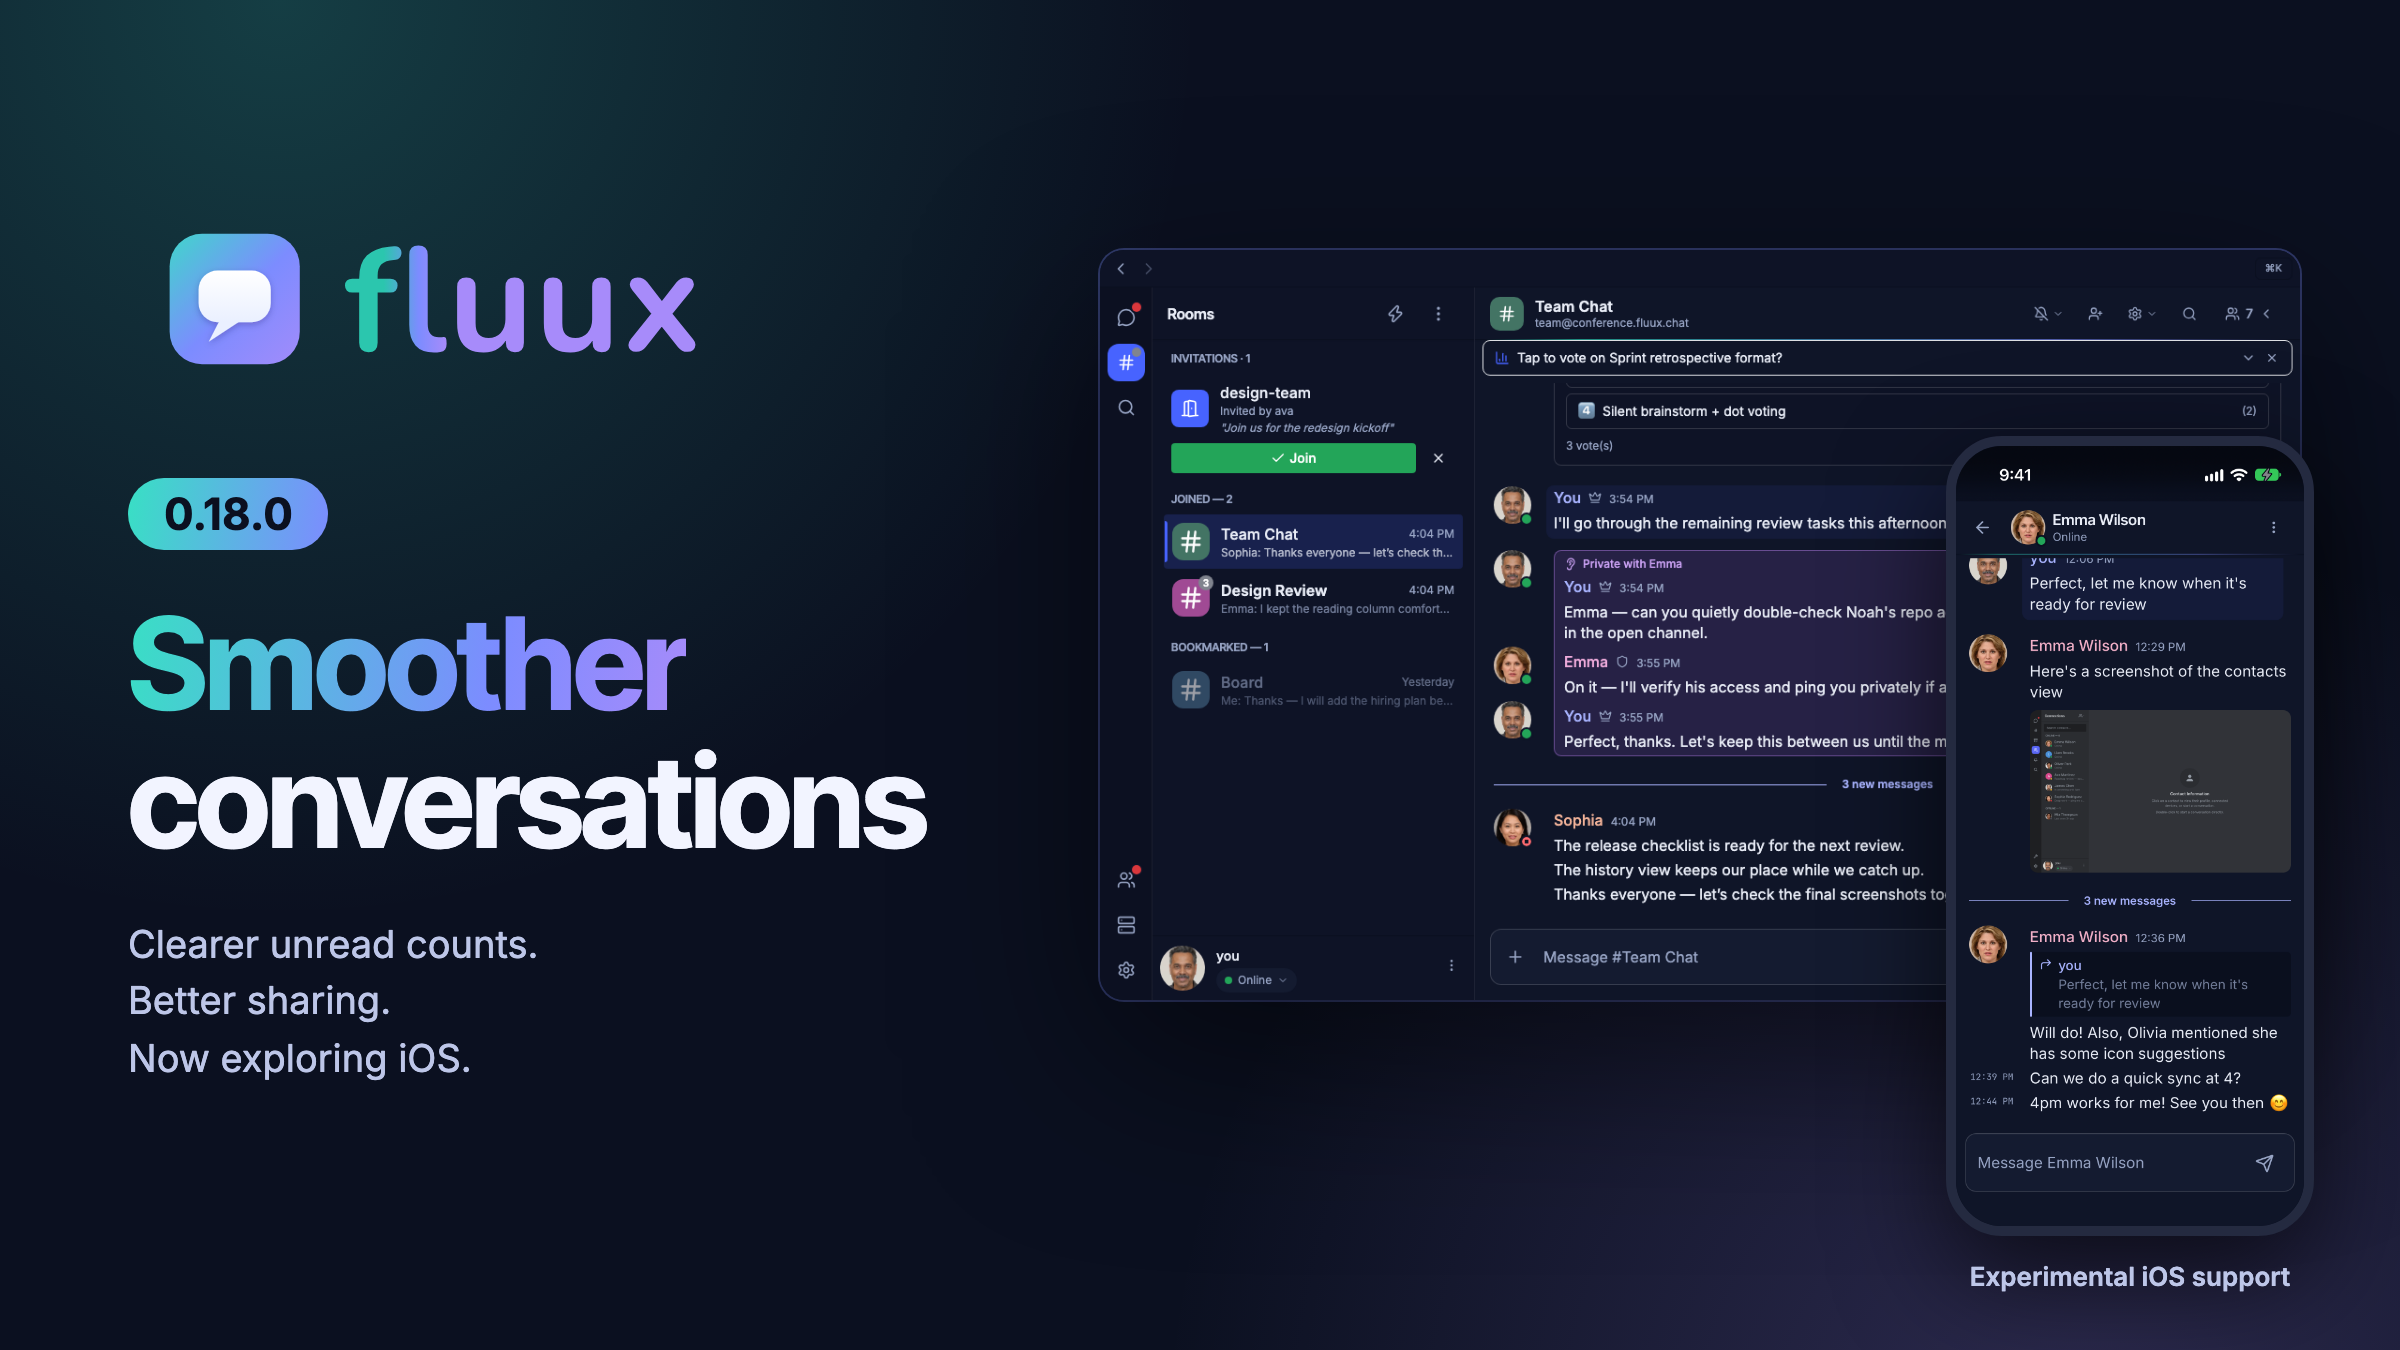
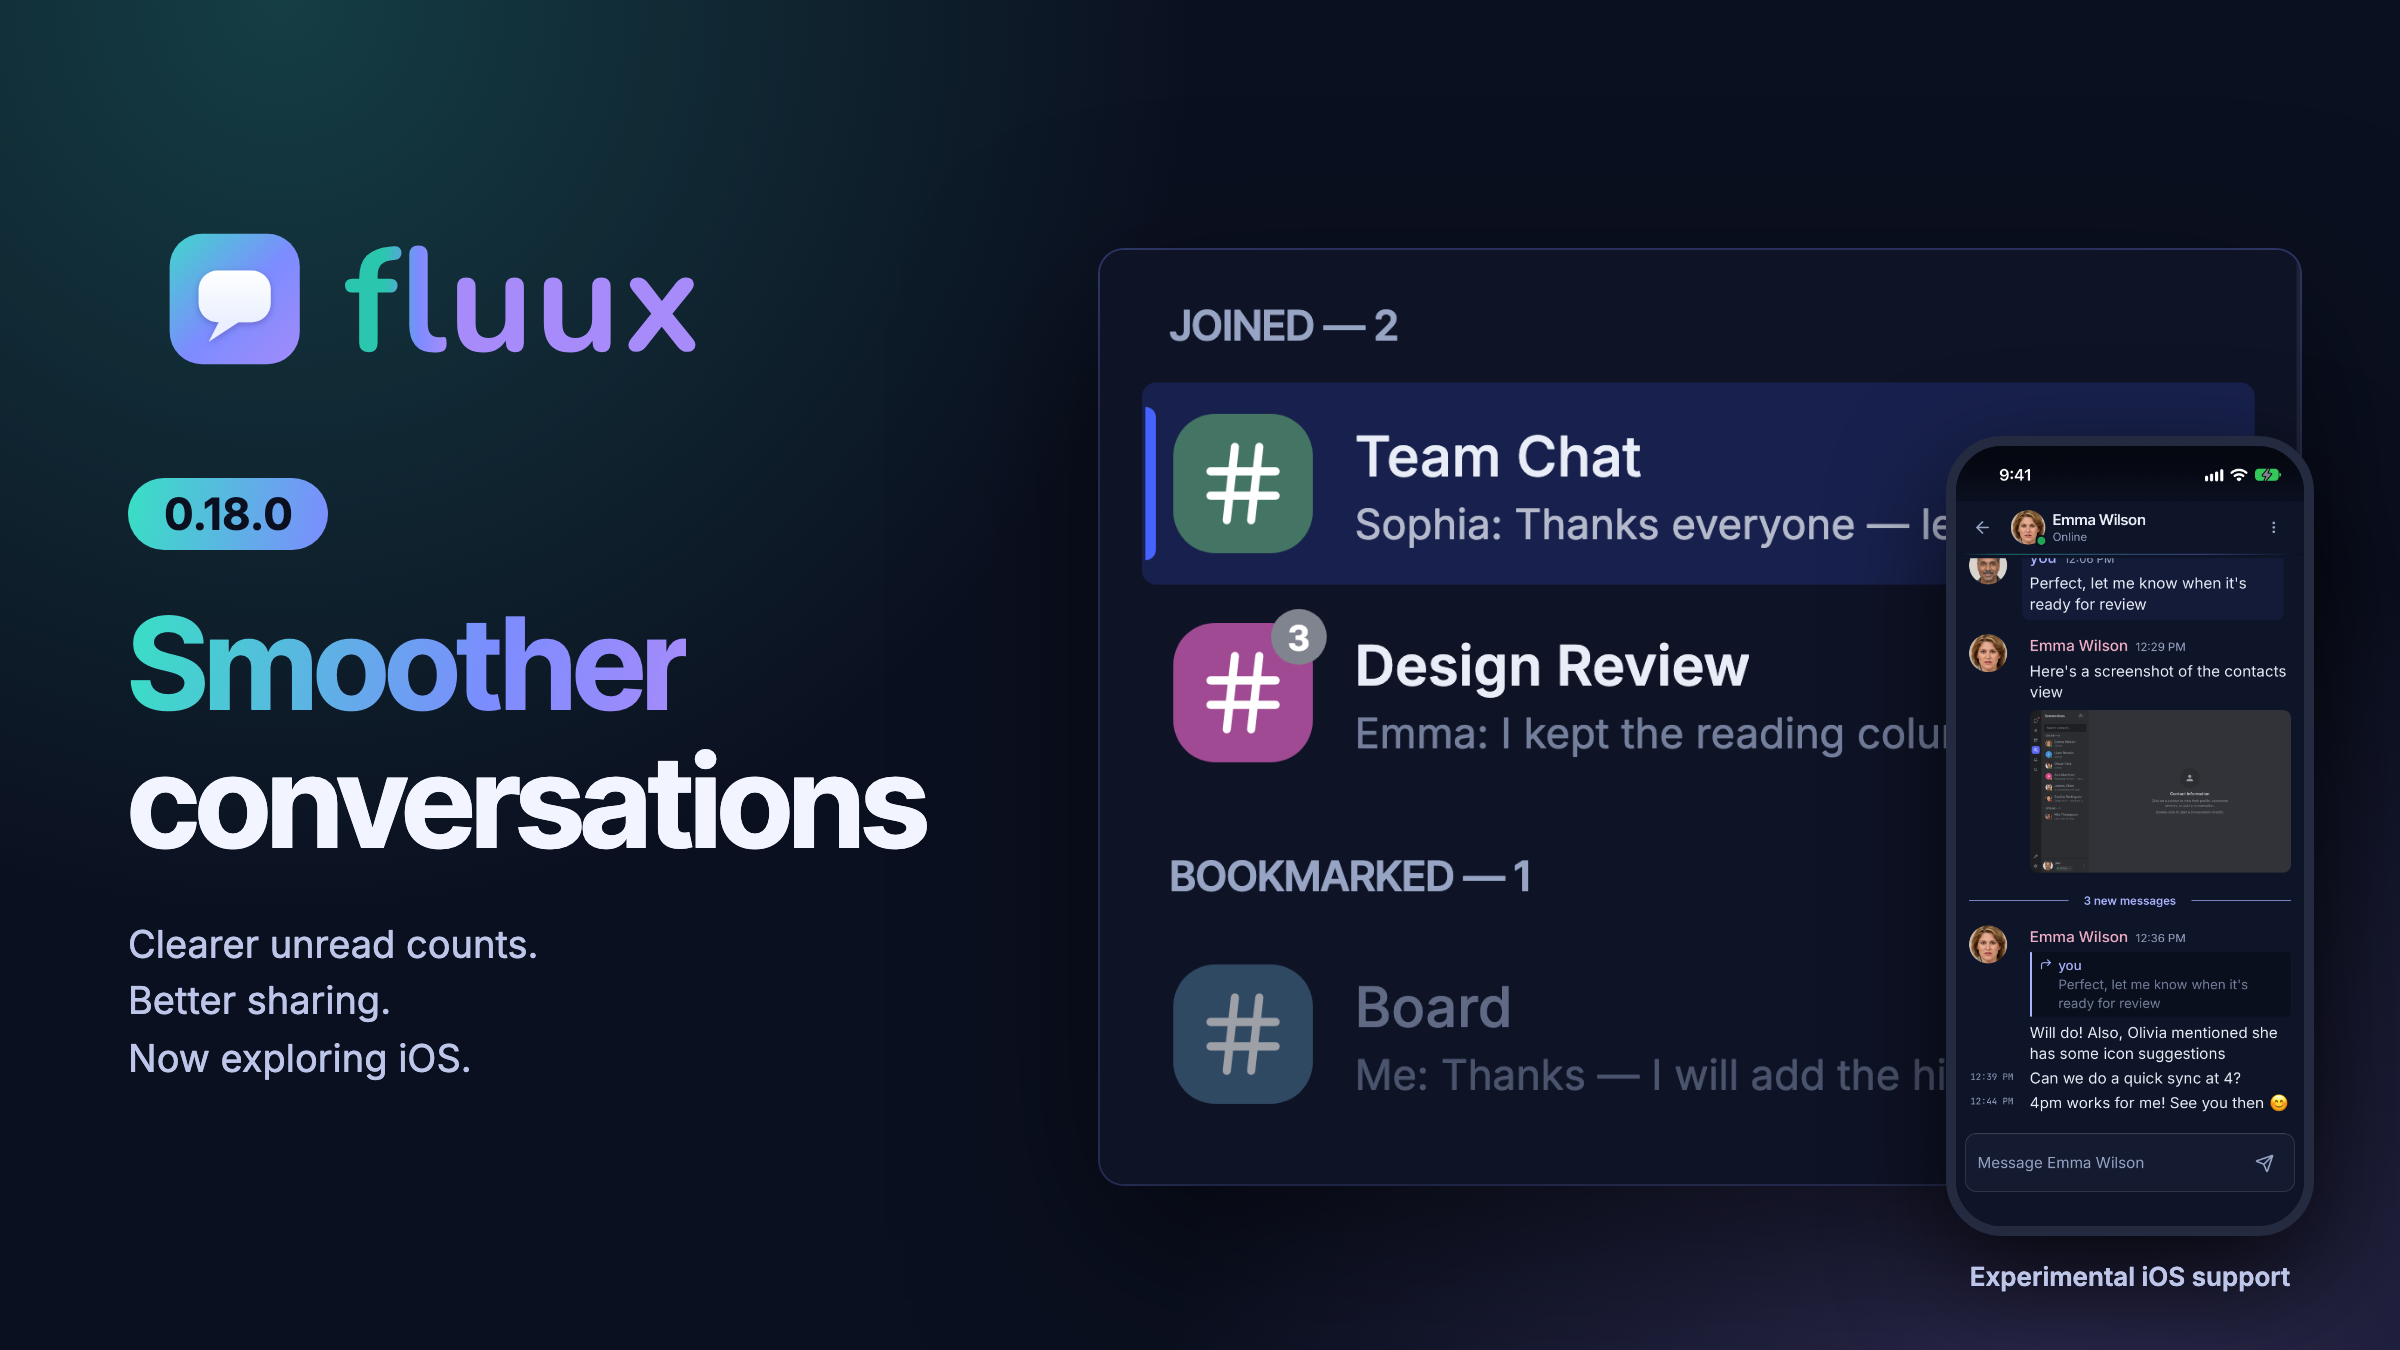
fix(media): use approved unread crop and iPhone-only blog copy

Changed region(s): [[0.4375, 0.2178, 0.9375, 0.5911], [0.4688, 0.5911, 0.8125, 0.84]]

diff --git a/e2e/screenshots.ts b/e2e/screenshots.ts
@@ -78,11 +78,11 @@ async function selectItem(page: Page, name: string) {
 }
 
 /** Take a screenshot and save to the output directory. */
-async function capture(page: Page, filename: string) {
+async function capture(page: Page, filename: string, clip?: { x: number; y: number; width: number; height: number }) {
   await clearHover(page)
   await page.waitForTimeout(300)
   await waitForFloatingDateToFade(page)
-  await page.screenshot({ path: `${OUTPUT_DIR}/${filename}.png`, type: 'png' })
+  await page.screenshot({ path: `${OUTPUT_DIR}/${filename}.png`, type: 'png', clip })
 }
 
 /**
@@ -557,49 +557,55 @@ test('32 — Unread badge + new-message divider (dark)', async ({ page }) => {
 })
 
 // Captain's 0.18.0 correction: show the new room-avatar unread count without an @ mention badge.
-test('33 — Release 0.18.0 room read state (dark)', async ({ page }) => {
-  await waitForDemoReady(page)
-  await page.evaluate(() => {
-    const client = (window as any).__demoClient
-    const conversations = [
-      { roomJid: 'design@conference.fluux.chat', nick: 'Emma', bodies: [
-        'The updated desktop screenshots are ready to review.',
-        'Could you check the mobile layout too?',
-        'I kept the reading column comfortable on wide windows.',
-      ] },
-      { roomJid: 'team@conference.fluux.chat', nick: 'Sophia', bodies: [
-        'The release checklist is ready for the next review.',
-        'The history view keeps our place while we catch up.',
-        'Thanks everyone — let’s check the final screenshots together.',
-      ] },
-    ]
-    client.startAnimation(conversations.flatMap(({ roomJid, nick, bodies }, room) =>
-      bodies.map((body, index) => ({
-        delayMs: 0, action: 'room-message', data: {
-          roomJid, incrementUnread: true, incrementMentions: false,
-          message: {
-            type: 'groupchat', id: `release-018-${room}-${index}`,
-            stanzaId: `sid-release-018-${room}-${index}`, from: `${roomJid}/${nick}`,
-            nick, body, timestamp: new Date(Date.now() + index), isOutgoing: false, roomJid,
+test.describe('Release 0.18.0 media', () => {
+  // Keep the approved crop crisp when enlarged in the 2× blog hero.
+  test.use({ deviceScaleFactor: 4 })
+
+  test('33 — Release 0.18.0 room read state (dark)', async ({ page }) => {
+    await waitForDemoReady(page)
+    await page.evaluate(() => {
+      const client = (window as any).__demoClient
+      const conversations = [
+        { roomJid: 'design@conference.fluux.chat', nick: 'Emma', bodies: [
+          'The updated desktop screenshots are ready to review.',
+          'Could you check the mobile layout too?',
+          'I kept the reading column comfortable on wide windows.',
+        ] },
+        { roomJid: 'team@conference.fluux.chat', nick: 'Sophia', bodies: [
+          'The release checklist is ready for the next review.',
+          'The history view keeps our place while we catch up.',
+          'Thanks everyone — let’s check the final screenshots together.',
+        ] },
+      ]
+      client.startAnimation(conversations.flatMap(({ roomJid, nick, bodies }, room) =>
+        bodies.map((body, index) => ({
+          delayMs: 0, action: 'room-message', data: {
+            roomJid, incrementUnread: true, incrementMentions: false,
+            message: {
+              type: 'groupchat', id: `release-018-${room}-${index}`,
+              stanzaId: `sid-release-018-${room}-${index}`, from: `${roomJid}/${nick}`,
+              nick, body, timestamp: new Date(Date.now() + index), isOutgoing: false, roomJid,
+            },
           },
-        },
-      }))))
+        }))))
+    })
+    await navigateTo(page, 'rooms')
+    // Widen the real sidebar so room names remain readable beside the avatar count.
+    const divider = await page.locator('[role="separator"]').first().boundingBox()
+    if (!divider) throw new Error('Sidebar resize handle is missing')
+    await page.mouse.move(divider.x + divider.width / 2, divider.y + divider.height / 2)
+    await page.mouse.down()
+    await page.mouse.move(divider.x + 140, divider.y + divider.height / 2, { steps: 10 })
+    await page.mouse.up()
+    const design = page.locator('[data-room-jid="design@conference.fluux.chat"]')
+    await selectItem(page, 'Team Chat')
+    await expect(design.getByLabel('3 unread messages')).toBeVisible()
+    await expect(design.getByLabel(/^Mentions:/)).toHaveCount(0)
+    await expect(page.locator('[data-new-message-marker]')).toHaveText('3 new messages')
+    await expect(page.getByText('Thanks everyone — let’s check the final screenshots together.', { exact: true })).toBeVisible()
+    // Approved closer crop: keep the joined-room avatar count readable in the hero.
+    await capture(page, 'release-0.18.0-desktop-unread', { x: 56, y: 244, width: 344, height: 268 })
   })
-  await navigateTo(page, 'rooms')
-  // Widen the real sidebar so room names remain readable beside the avatar count.
-  const divider = await page.locator('[role="separator"]').first().boundingBox()
-  if (!divider) throw new Error('Sidebar resize handle is missing')
-  await page.mouse.move(divider.x + divider.width / 2, divider.y + divider.height / 2)
-  await page.mouse.down()
-  await page.mouse.move(divider.x + 140, divider.y + divider.height / 2, { steps: 10 })
-  await page.mouse.up()
-  const design = page.locator('[data-room-jid="design@conference.fluux.chat"]')
-  await selectItem(page, 'Team Chat')
-  await expect(design.getByLabel('3 unread messages')).toBeVisible()
-  await expect(design.getByLabel(/^Mentions:/)).toHaveCount(0)
-  await expect(page.locator('[data-new-message-marker]')).toHaveText('3 new messages')
-  await expect(page.getByText('Thanks everyone — let’s check the final screenshots together.', { exact: true })).toBeVisible()
-  await capture(page, 'release-0.18.0-desktop-unread')
 })
 
 // ── Glass Theme-Variant Scenes ─────────────────────────────────────

diff --git a/scripts/blog-hero/blog-hero-0.18.0.html b/scripts/blog-hero/blog-hero-0.18.0.html
@@ -38,7 +38,7 @@
     <h1><span>Smoother</span><br>conversations</h1>
     <p class="summary">Clearer unread counts.<br>Better sharing.<br>Now exploring iOS.</p>
   </div>
-  <img class="desktop" src="../../screenshots/release-0.18.0-desktop-unread.png" alt="Desktop room list and conversation with new messages">
+  <img class="desktop" src="../../screenshots/release-0.18.0-desktop-unread.png" alt="Desktop room list cropped to show the unread count on Design Review's avatar">
   <div class="phone"><img src="../../screenshots/release-0.18.0-ios-chat.png" alt="Fluux running natively on iPhone"></div>
   <div class="ios-label">Experimental iOS support</div>
 </main>

diff --git a/docs/blog/fluux-messenger-0.18.0-media.md b/docs/blog/fluux-messenger-0.18.0-media.md
@@ -8,8 +8,8 @@ date remains unconfirmed; adding these assets does not publish the post.
 | Asset | File | Placement / dimensions |
 | --- | --- | --- |
 | Blog thumbnail | `screenshots/blog-hero-0.18.0.png` | Blog opening; 2400×1350, intended to display at 1200×675. Aurora branding, 0.18.0, desktop and native iPhone, with an experimental iOS label. |
-| Desktop room read state | `screenshots/release-0.18.0-desktop-unread.png` | Under **Clearer unread counts**; 1280×800. Design Review shows unread 3 on its avatar without an @ mention badge; Team Chat shows its three-message divider. |
-| Native iPhone conversation | `screenshots/release-0.18.0-ios-chat.png` | Under **Experimental iPhone and iPad support**; 1206×2622. Emma's conversation with an attachment, reply and unread divider. |
+| Desktop room read state | `screenshots/release-0.18.0-desktop-unread.png` | Under **Clearer unread counts**; 1376×1072 room-list crop, captured at 4× for a crisp 344×268 logical region. Design Review shows unread 3 on its avatar without an @ mention badge. |
+| Native iPhone conversation | `screenshots/release-0.18.0-ios-chat.png` | Under **Experimental iOS support for iPhone**; 1206×2622. Emma's conversation with an attachment, reply and unread divider. |
 | Native iPhone list | `screenshots/release-0.18.0-ios-list.png` | Companion screenshot in the visual overview; 1206×2622, avatars and unread badges. |
 | Desktop gallery | Existing PNGs generated by `e2e/screenshots.ts` | 60 refreshed compositions at 1280×800, retaining their existing names, themes, density and language variants. Old release hero images are unchanged. |
 | Updated demo reel | `assets/readme/fluux-demo.mp4` | 129.37 seconds, 1920×1080 at 30 fps, silent H.264/yuv420p, limited-range BT.709, fast-start metadata; 2,841,802 bytes. |
@@ -24,7 +24,9 @@ project's existing isolated demo data. The dedicated desktop scene injects
 sample messages through `DemoClient`, then opens the room through the UI. It
 asserts the unread avatar badge, absence of a mention badge, numbered divider
 and final message before capturing. Its sidebar is widened through the actual
-resize handle so names remain readable beside the avatar count.
+resize handle so names remain readable beside the avatar count. The approved
+closer crop keeps the joined rooms and bookmarked Board room, omitting the open
+conversation so the new avatar count is easier to see in the blog and hero.
 
 The iPhone images come from this checkout's unsigned **Fluux iOS Demo**
 (`net.processone.fluux.demo`) on an iPhone 17 Pro simulator running iOS 27.0,

diff --git a/docs/blog/fluux-messenger-0.18.0.md b/docs/blog/fluux-messenger-0.18.0.md
@@ -4,7 +4,7 @@ Publication date: [To confirm]
 
 ![Fluux Messenger 0.18.0: smoother conversations, desktop room read state and experimental native iPhone support](../../screenshots/blog-hero-0.18.0.png)
 
-Fluux Messenger 0.18.0 focuses on the parts of messaging you rely on every day: opening a long conversation, catching up after a disconnect, and knowing what remains unread. It also makes sharing easier on macOS and introduces experimental native support for iPhone and iPad.
+Fluux Messenger 0.18.0 focuses on the parts of messaging you rely on every day: opening a long conversation, catching up after a disconnect, and knowing what remains unread. It also makes sharing easier on macOS and introduces experimental native iOS support for iPhone.
 
 If you are discovering Fluux, it is an open-source XMPP client for teams, communities, and anyone who wants control over their communications. This release keeps the focus on making those conversations easier to follow.
 
@@ -24,7 +24,7 @@ The “New messages” divider now counts the messages actually below it, rather
 
 Messages from ignored room members no longer add to unread or mention badges. Messages you send from another device under a different room nickname are recognised as yours, without an extra notification or unread count.
 
-![Desktop room list with Design Review's unread count on its avatar beside Team Chat's three-new-message divider](../../screenshots/release-0.18.0-desktop-unread.png)
+![Desktop room list cropped to show Design Review's unread count on its avatar without an @ mention badge](../../screenshots/release-0.18.0-desktop-unread.png)
 
 ## Better sharing, with the context you need
 
@@ -34,7 +34,7 @@ Whispers to a room member can now include attachments. Before you send, Fluux ex
 
 Desktop file handling also gets a practical fix: attaching or opening files with non-Latin names works again.
 
-## Experimental iPhone and iPad support
+## Experimental iOS support for iPhone
 
 Version 0.18.0 introduces experimental native iOS support, with push notifications, system sharing, native file transfers, and OpenPGP encryption.
 

diff --git a/screenshots/OVERVIEW.md b/screenshots/OVERVIEW.md
@@ -8,7 +8,7 @@ All screenshots are generated automatically from the [demo mode](../docs/DEMO_MO
 
 | Desktop room read state | Native iPhone conversation | Native iPhone list |
 | --- | --- | --- |
-| <a href="./release-0.18.0-desktop-unread.png"><img src="./release-0.18.0-desktop-unread.png" width="400" alt="Room-avatar unread count without mentions beside a new-message divider"/></a> | <a href="./release-0.18.0-ios-chat.png"><img src="./release-0.18.0-ios-chat.png" width="180" alt="Native iPhone conversation with an attachment, reply and unread divider"/></a> | <a href="./release-0.18.0-ios-list.png"><img src="./release-0.18.0-ios-list.png" width="180" alt="Native iPhone conversation list with avatars and unread badges"/></a> |
+| <a href="./release-0.18.0-desktop-unread.png"><img src="./release-0.18.0-desktop-unread.png" width="400" alt="Desktop room-list crop showing an unread count on Design Review's avatar without mentions"/></a> | <a href="./release-0.18.0-ios-chat.png"><img src="./release-0.18.0-ios-chat.png" width="180" alt="Native iPhone conversation with an attachment, reply and unread divider"/></a> | <a href="./release-0.18.0-ios-list.png"><img src="./release-0.18.0-ios-list.png" width="180" alt="Native iPhone conversation list with avatars and unread badges"/></a> |
 
 The iPhone images come from the unsigned isolated native demo in iOS Simulator,
 not a mobile browser. iOS support is experimental. See the
